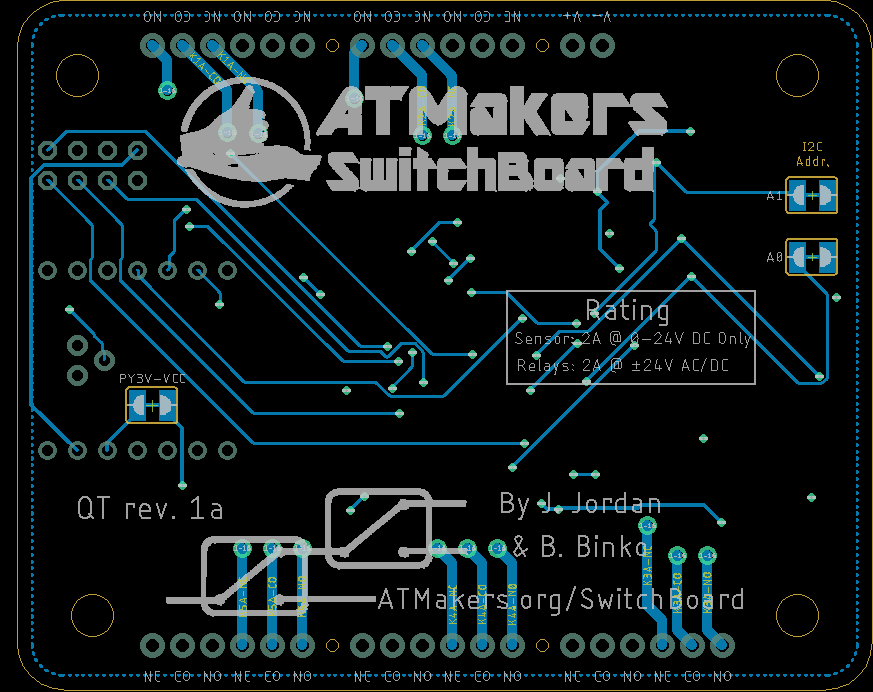
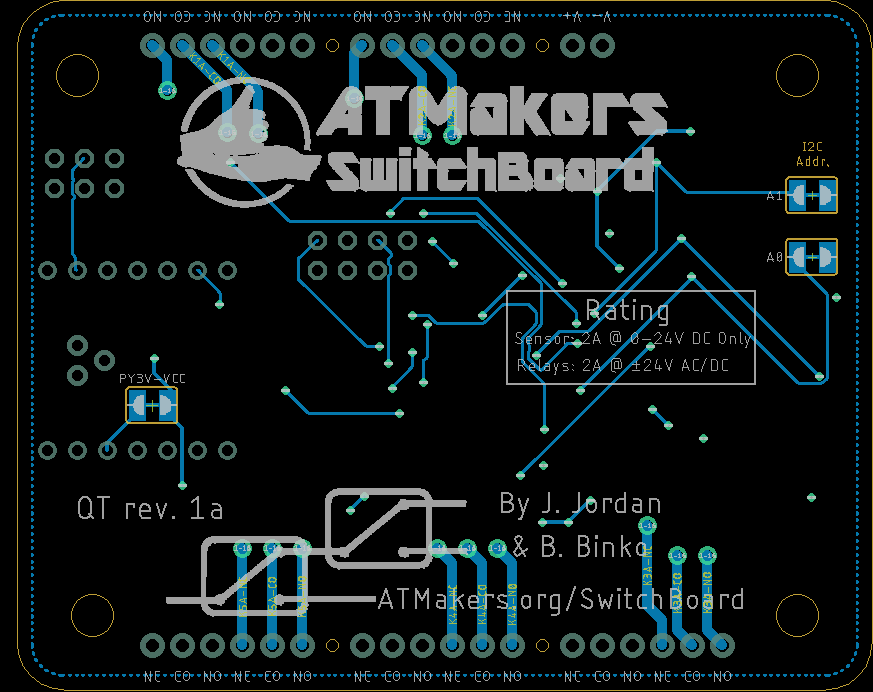
New jumper block and driver footprint

diff --git a/hardware/Switchboard-QT-Hardware.md b/hardware/Switchboard-QT-Hardware.md
@@ -20,17 +20,14 @@
   * Reset Switch
 * Interconnects
   * Qwiic/Stemma-QT connectors
-  * Terminal Blocks for Relays & Power Sensor
-  * Header for select pin access
-    * 5V & GND
-    * GPA5-GPA7, GPB5-GPB-7
-    * under consideration:
-      * /RESET
-      * /INT
-      * QT Py A0-A2, SPIx3, TX, RX
-  * Cut/solder jumpers for:
-    * I2C addresses (A0, A1). Grounded, cut to pull high.
-    * I2C Vcc connection to QT Py MCU. Cut to isolate QT Py voltage regulator from Qwiic Vcc.
+  * Solder holes / screw terminal blocks for Relays & Power Sensor
+  * Header for select pin access:
+    * 5V & GND (powers QT Py)
+    * GPA5-GPA7, GPB5-GPB-7, /INT
+    * QT Py A0-A3
+    * Cut/solder jumpers for:
+      * I2C addresses (A0, A1). Grounded, cut to pull high.
+      * I2C Vcc connection to QT Py MCU. Cut to isolate QT Py voltage regulator from Qwiic Vcc.
 
 ---
 

diff --git a/README.md b/README.md
@@ -28,6 +28,4 @@ Software will be uploaded once developed and tested with the fabricated boards.
 
 ## Options Under Consideration
 
-* Add GPIOX /INT to JP1.
-* Add QTPy A0-A2 to JP1.
 * Expand the address range of the GPIOX and Power Monitor ICs. Allow SDA and SCL to be connected to A0 & A1 (increasing board addresses from 4 to 16).
